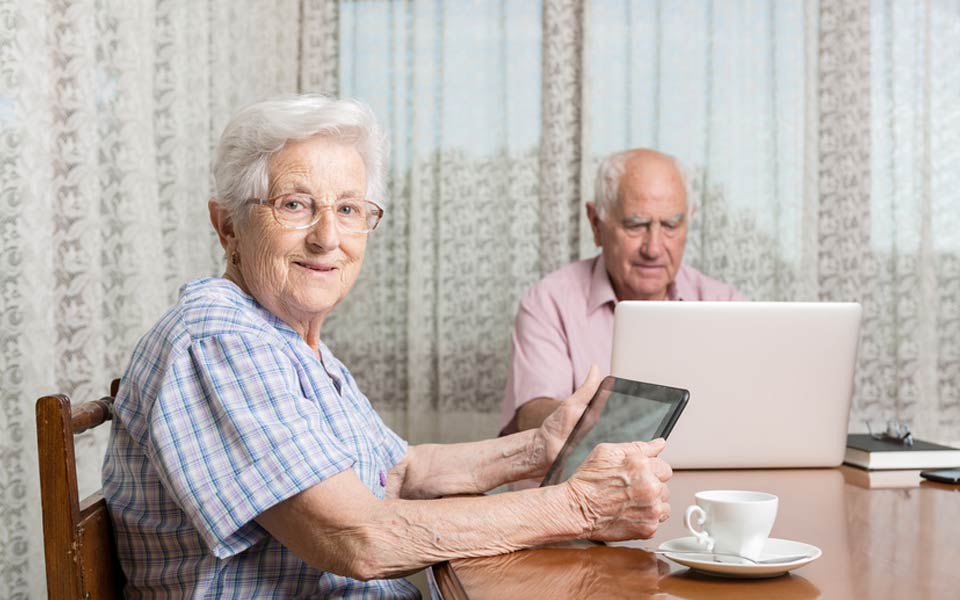
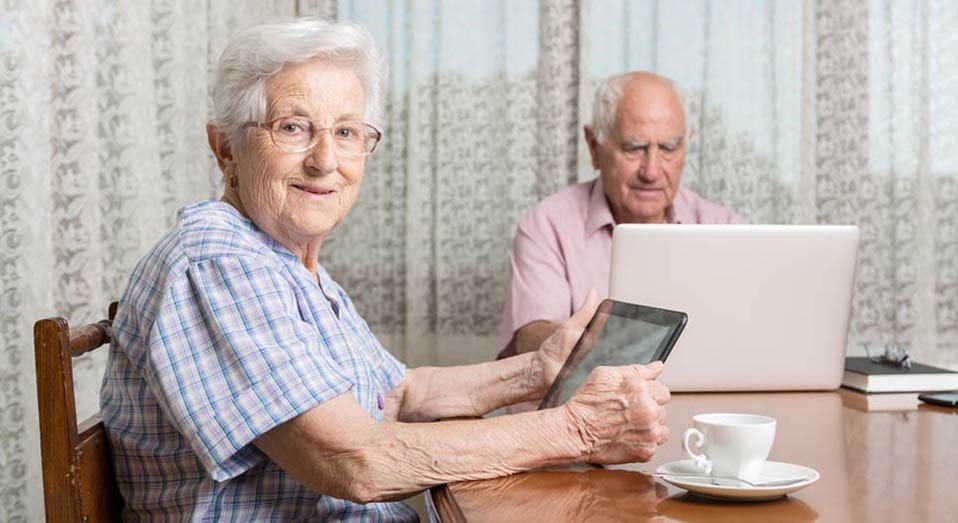
Réglage diapo

diff --git a/view/Accueil.php b/view/Accueil.php
@@ -10,7 +10,7 @@
 	
 <style type="text/css">
 	h1 {text-shadow: 2px 14px 6px rgba(30, 64, 0, 0.5);margin-right: center; width:52%;margin:auto;font-size: 25px;text-align: center;font-style: normal;}
-	.slider{margin: 10px 25%;overflow: hidden;height: 475px;width: 50%;border: 4px solid white;border-radius: 10px;box-shadow: -2px 30px 40px rgba(30, 64, 0, 0.5);}
+	.slider{margin: 10px 25%;overflow: hidden;height: 375px;width: 50%;border: 4px solid white;border-radius: 10px;box-shadow: -2px 30px 40px rgba(30, 64, 0, 0.5);}
 	.slider figure div{width: 20%;float: left;}
 	.slider figure img{width: 100%;height: 100%;float: left;}
 	.slider figure{position: relative;width: 500%;margin: 0;left: 0;animation: slide 27s linear infinite;}
